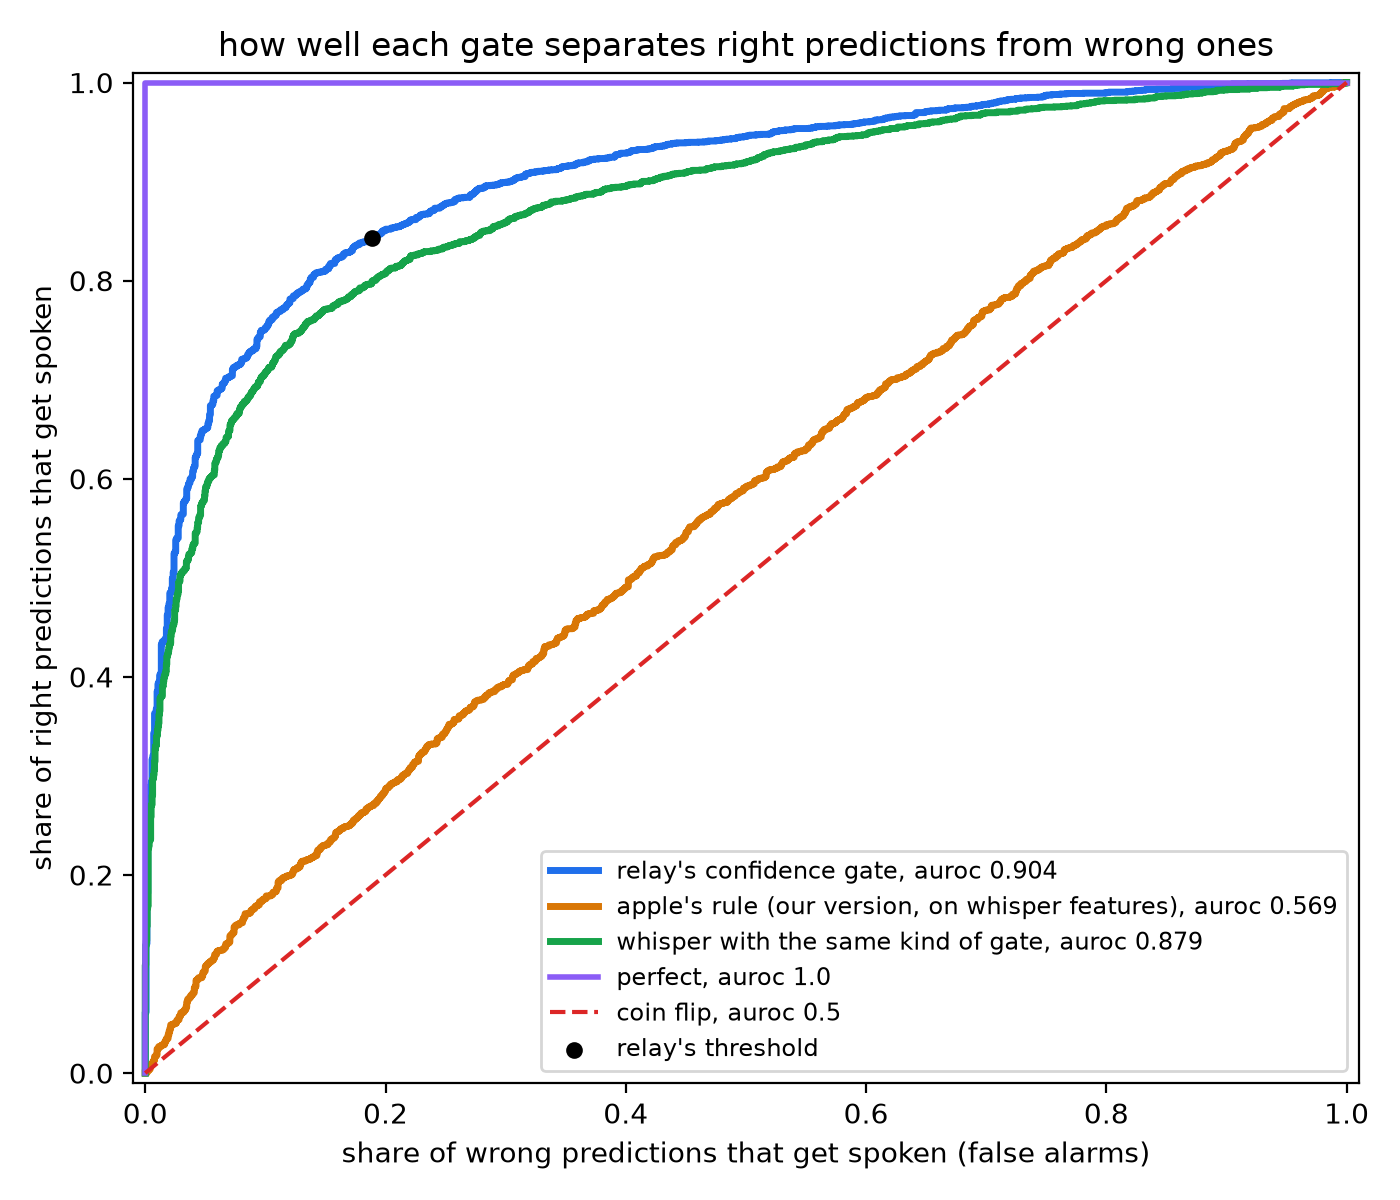
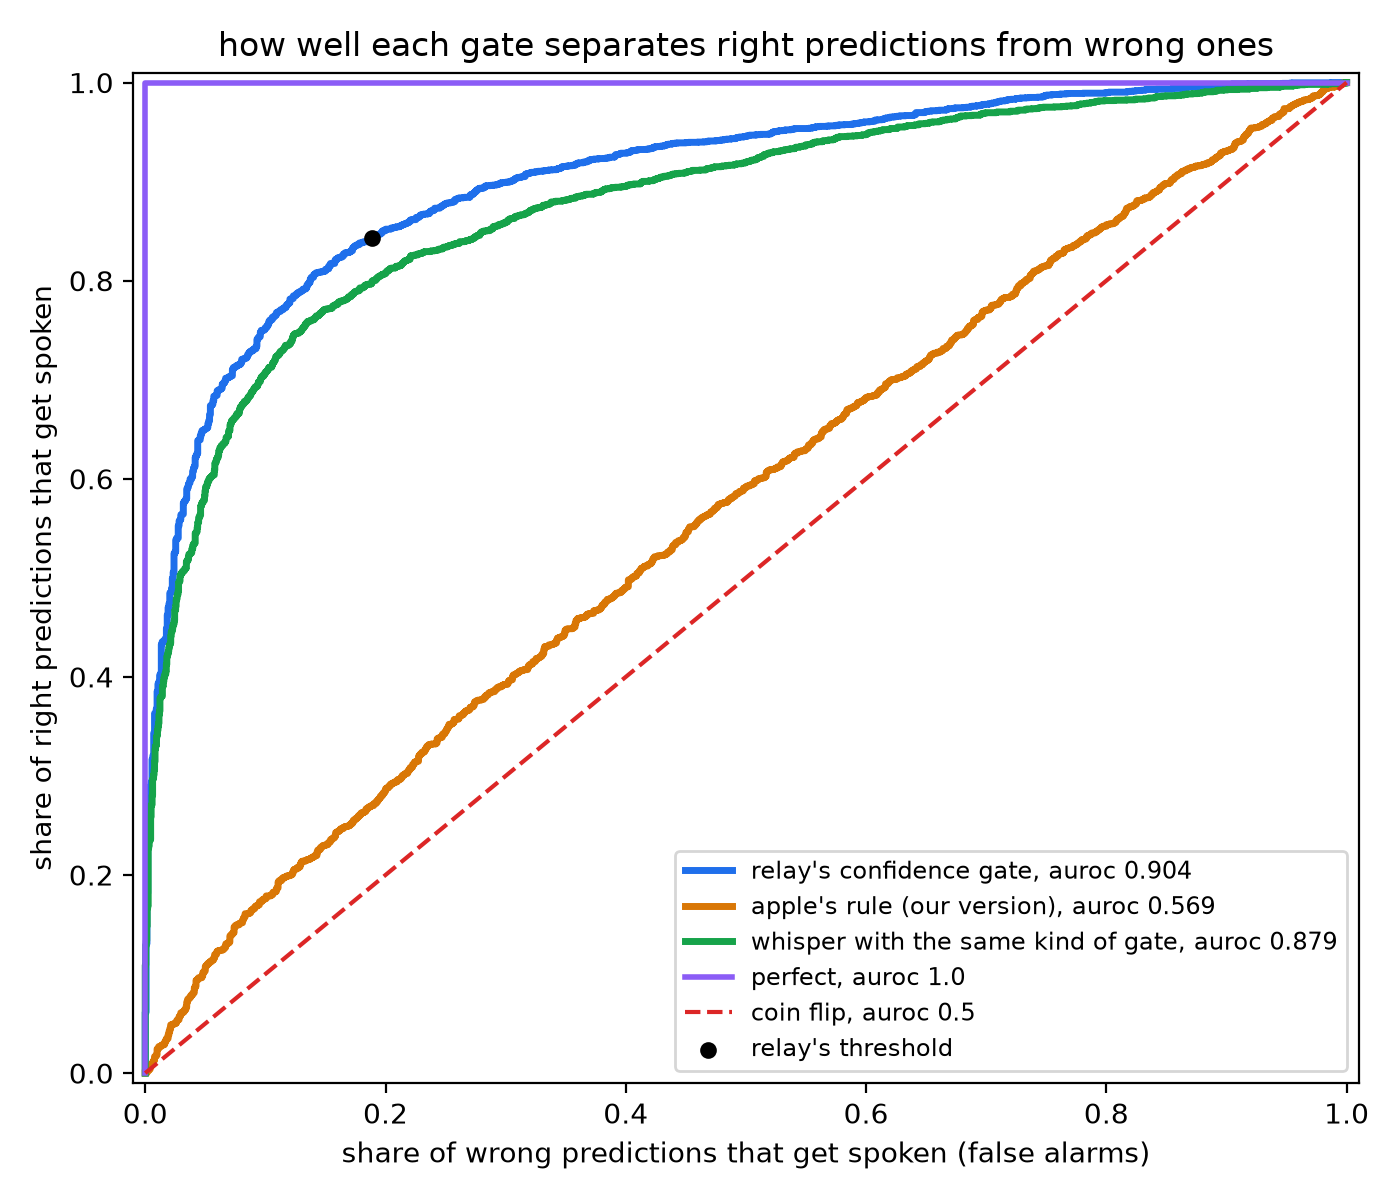
update roc curve

Changed region(s): [[0.3686, 0.7092, 0.9521, 0.8942]]

diff --git a/readme.md b/readme.md
@@ -70,7 +70,7 @@ all numbers are on the same 5,149 test recordings from the 27 speakers with dysa
 
 false alarms (relay speaks a wrong word) drop from 27.6% without the gate and land right at the 5% target even though the threshold was set on other speakers. missed cases are tries where relay showed three even though its prediction was right. on the tries where relay shows three, its best guess alone would be right only 33.6% of the time.
 
-to check how well the confidence score separates right predictions from wrong ones, we used auroc. if you pick one try where relay was right and one where it was wrong, auroc is how often the gate gives the right one the higher score. relay's gate scores **0.904**, so about 9 times out of 10. putting the same gate on whisper scores 0.879. our version of apple's rule, run on the same whisper features, scores 0.569.
+to check how well the confidence score separates right predictions from wrong ones, we used auroc. if you pick one try where relay was right and one where it was wrong, auroc is how often the gate gives the right one the higher score. relay's gate scores **0.904**, so about 9 times out of 10. putting the same gate on whisper scores 0.879. our version of apple's rule scores 0.569.
 
 <img src="roc_curve.png" width="550" alt="roc curve of the confidence gate">
 
